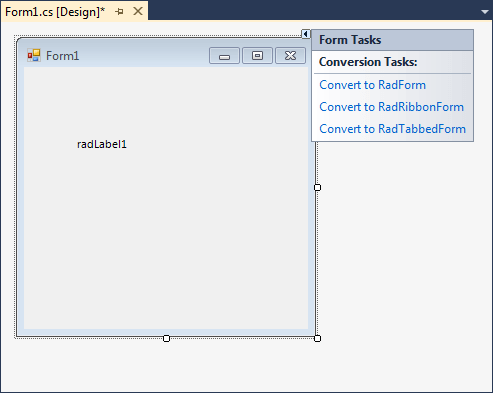
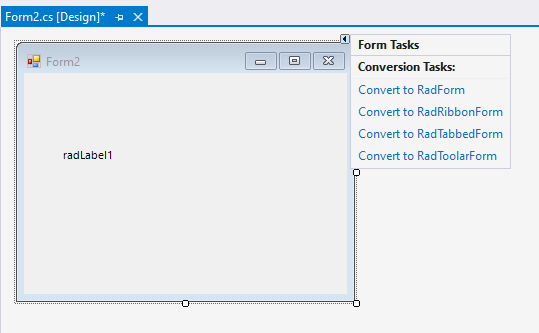
FormConverter: Mention ToolbarForm

diff --git a/controls/forms-and-dialogs/form-converter.md b/controls/forms-and-dialogs/form-converter.md
@@ -22,10 +22,11 @@ The actual conversion process is executed after selecting an item from the compo
 * **Convert to RadForm**: Converts a standard, ribbon or tabbed form to a **RadForm**.
 * **Convert to RadRibbonForm**: Converts a standard or **RadForm** or a **RadTabbedForm** to a **RadRibbonForm**.
 * **Convert to RadTabbedForm**: Converts a standard or **RadForm** or a **RadRibbonForm** to a **RadTabbedForm**.
+* **Convert to RadToolbarForm**: Converts a standard or **RadForm** or a **RadRibbonForm** to a **RadToolbarForm**.
 
 >note Any controls added in the Controls collection of the form will not be influenced by the conversion process.
 
-If you have at least one control from the Telerik UI for WinForms suite on the standard MS Form, you can also use the Form's smart tag in order to convert it to a **RadForm**, **RadRibbonForm** or **RadTabbedForm**. 
+If you have at least one control from the Telerik UI for WinForms suite on the standard MS Form, you can also use the Form's smart tag in order to convert it to a **RadForm**, **RadRibbonForm**, **RadTabbedForm** or **RadToolbarForm**. 
 
 >caption Figure 2: Form's smart tag
 
